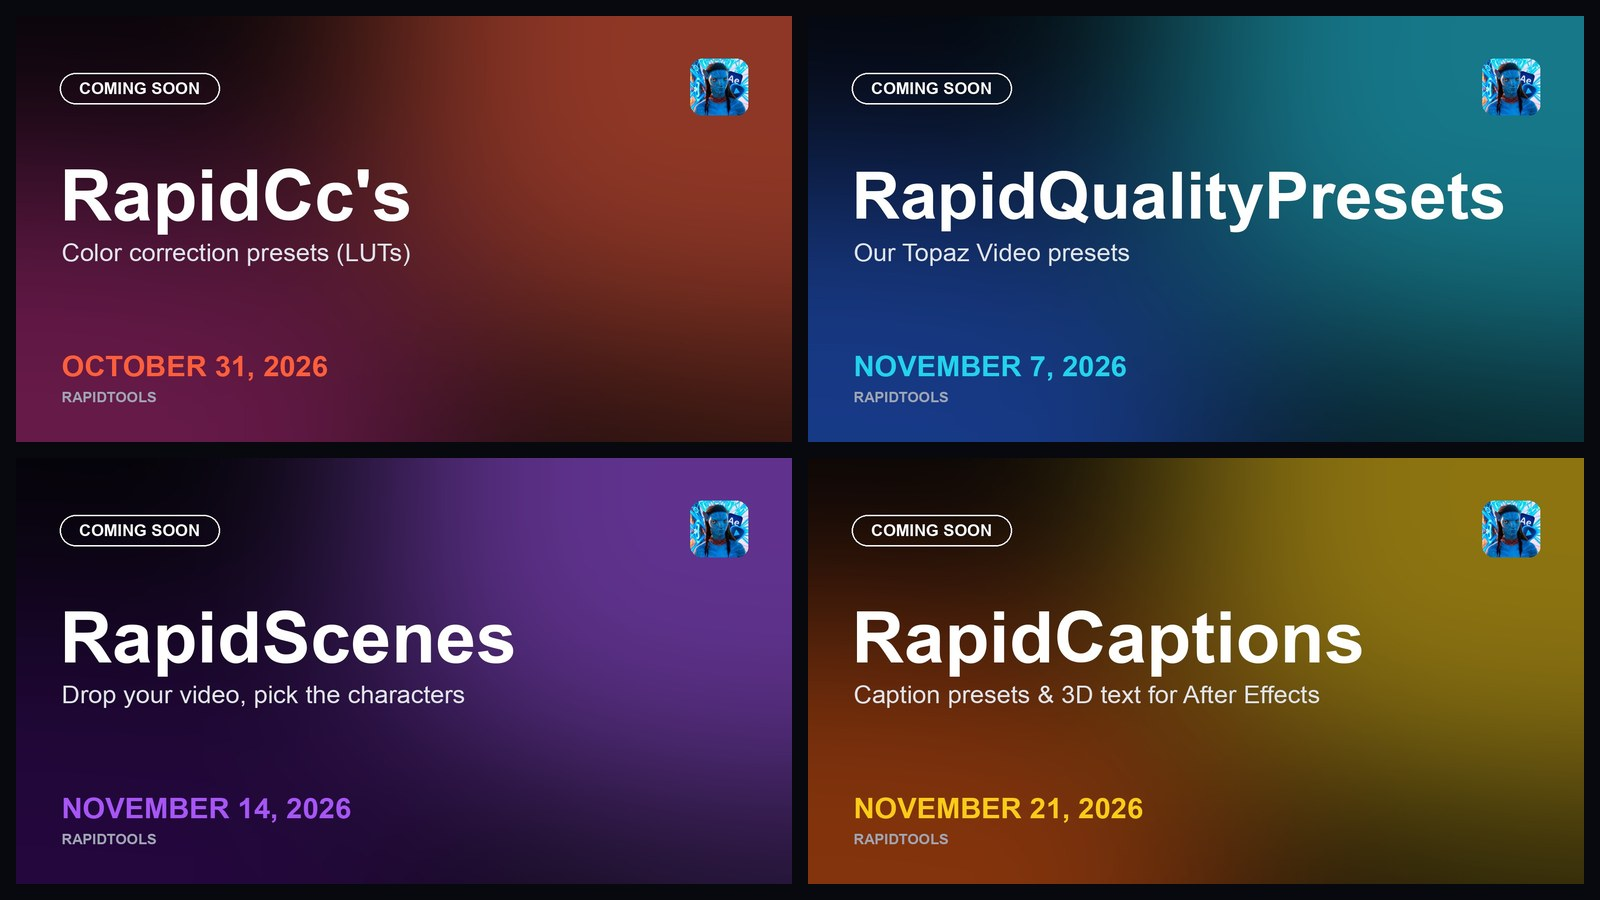
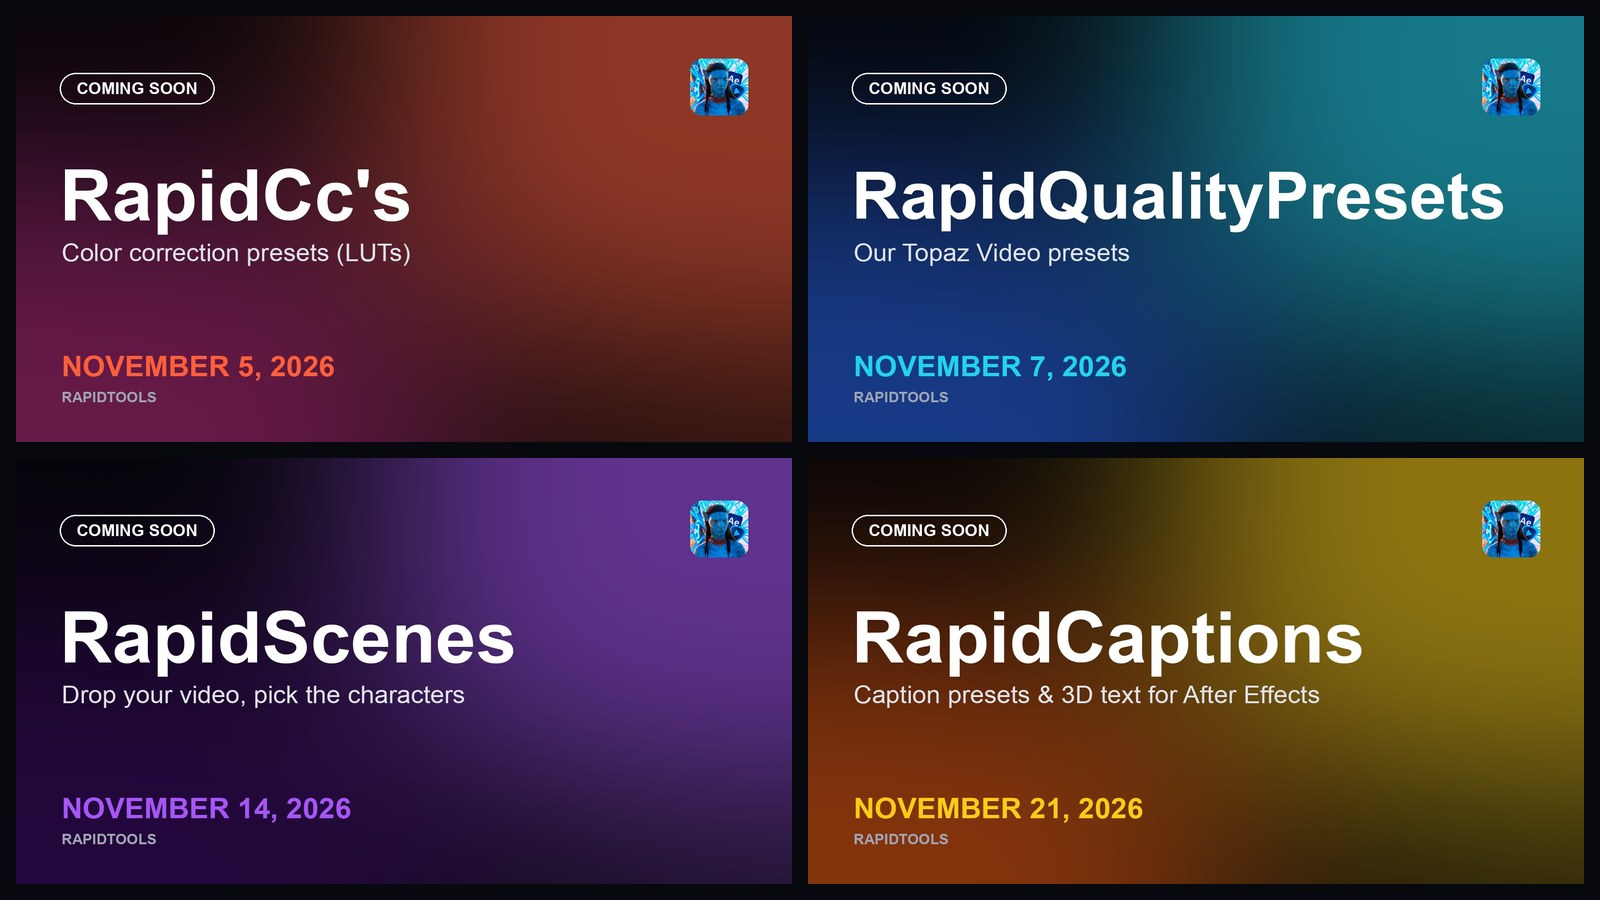
RapidCc's : sortie reportée au 5 novembre

diff --git a/announce.py b/announce.py
@@ -102,7 +102,7 @@ ANNOUNCEMENTS = {
         "image": "coming-soon",
         "title": "Coming soon to RapidTools",
         "description": (
-            "🎨 **RapidCc's**: our color correction presets, as LUTs. <#1562463197120823338> · <t:1793469600:R>\n"
+            "🎨 **RapidCc's**: our color correction presets, as LUTs. <#1562463197120823338> · <t:1793901600:R>\n"
             "🤖 **RapidQualityPresets**: the presets we use in Topaz Video. <#1562463199050342521> · <t:1794074400:R>\n"
             "🎬 **RapidScenes**: drop your video, pick the characters, get the packs. <#1562463200585322637> · <t:1794679200:R>\n"
             "✍ **RapidCaptions**: caption presets and 3D text for After Effects. <#1562463202107990076> · <t:1795284000:R>\n\n"

diff --git a/promo.py b/promo.py
@@ -86,7 +86,7 @@ TIPS = [
 
 # Teasers des prochains outils (pas de bouton d'achat : rien à acheter encore)
 TEASERS = [
-    "RapidCc's drop <t:1793469600:R>. our color correction presets, as LUTs. <#1562463197120823338>",
+    "RapidCc's drop <t:1793901600:R>. our color correction presets, as LUTs. <#1562463197120823338>",
     "RapidQualityPresets, our Topaz Video presets, are out <t:1794074400:R> <#1562463199050342521>",
     "RapidScenes makes scene packs without the manual work: drop your video, pick the characters. <t:1794679200:R> <#1562463200585322637>",
     "RapidCaptions, caption presets and 3D text for After Effects, is coming <t:1795284000:R>. <#1562463202107990076>",
